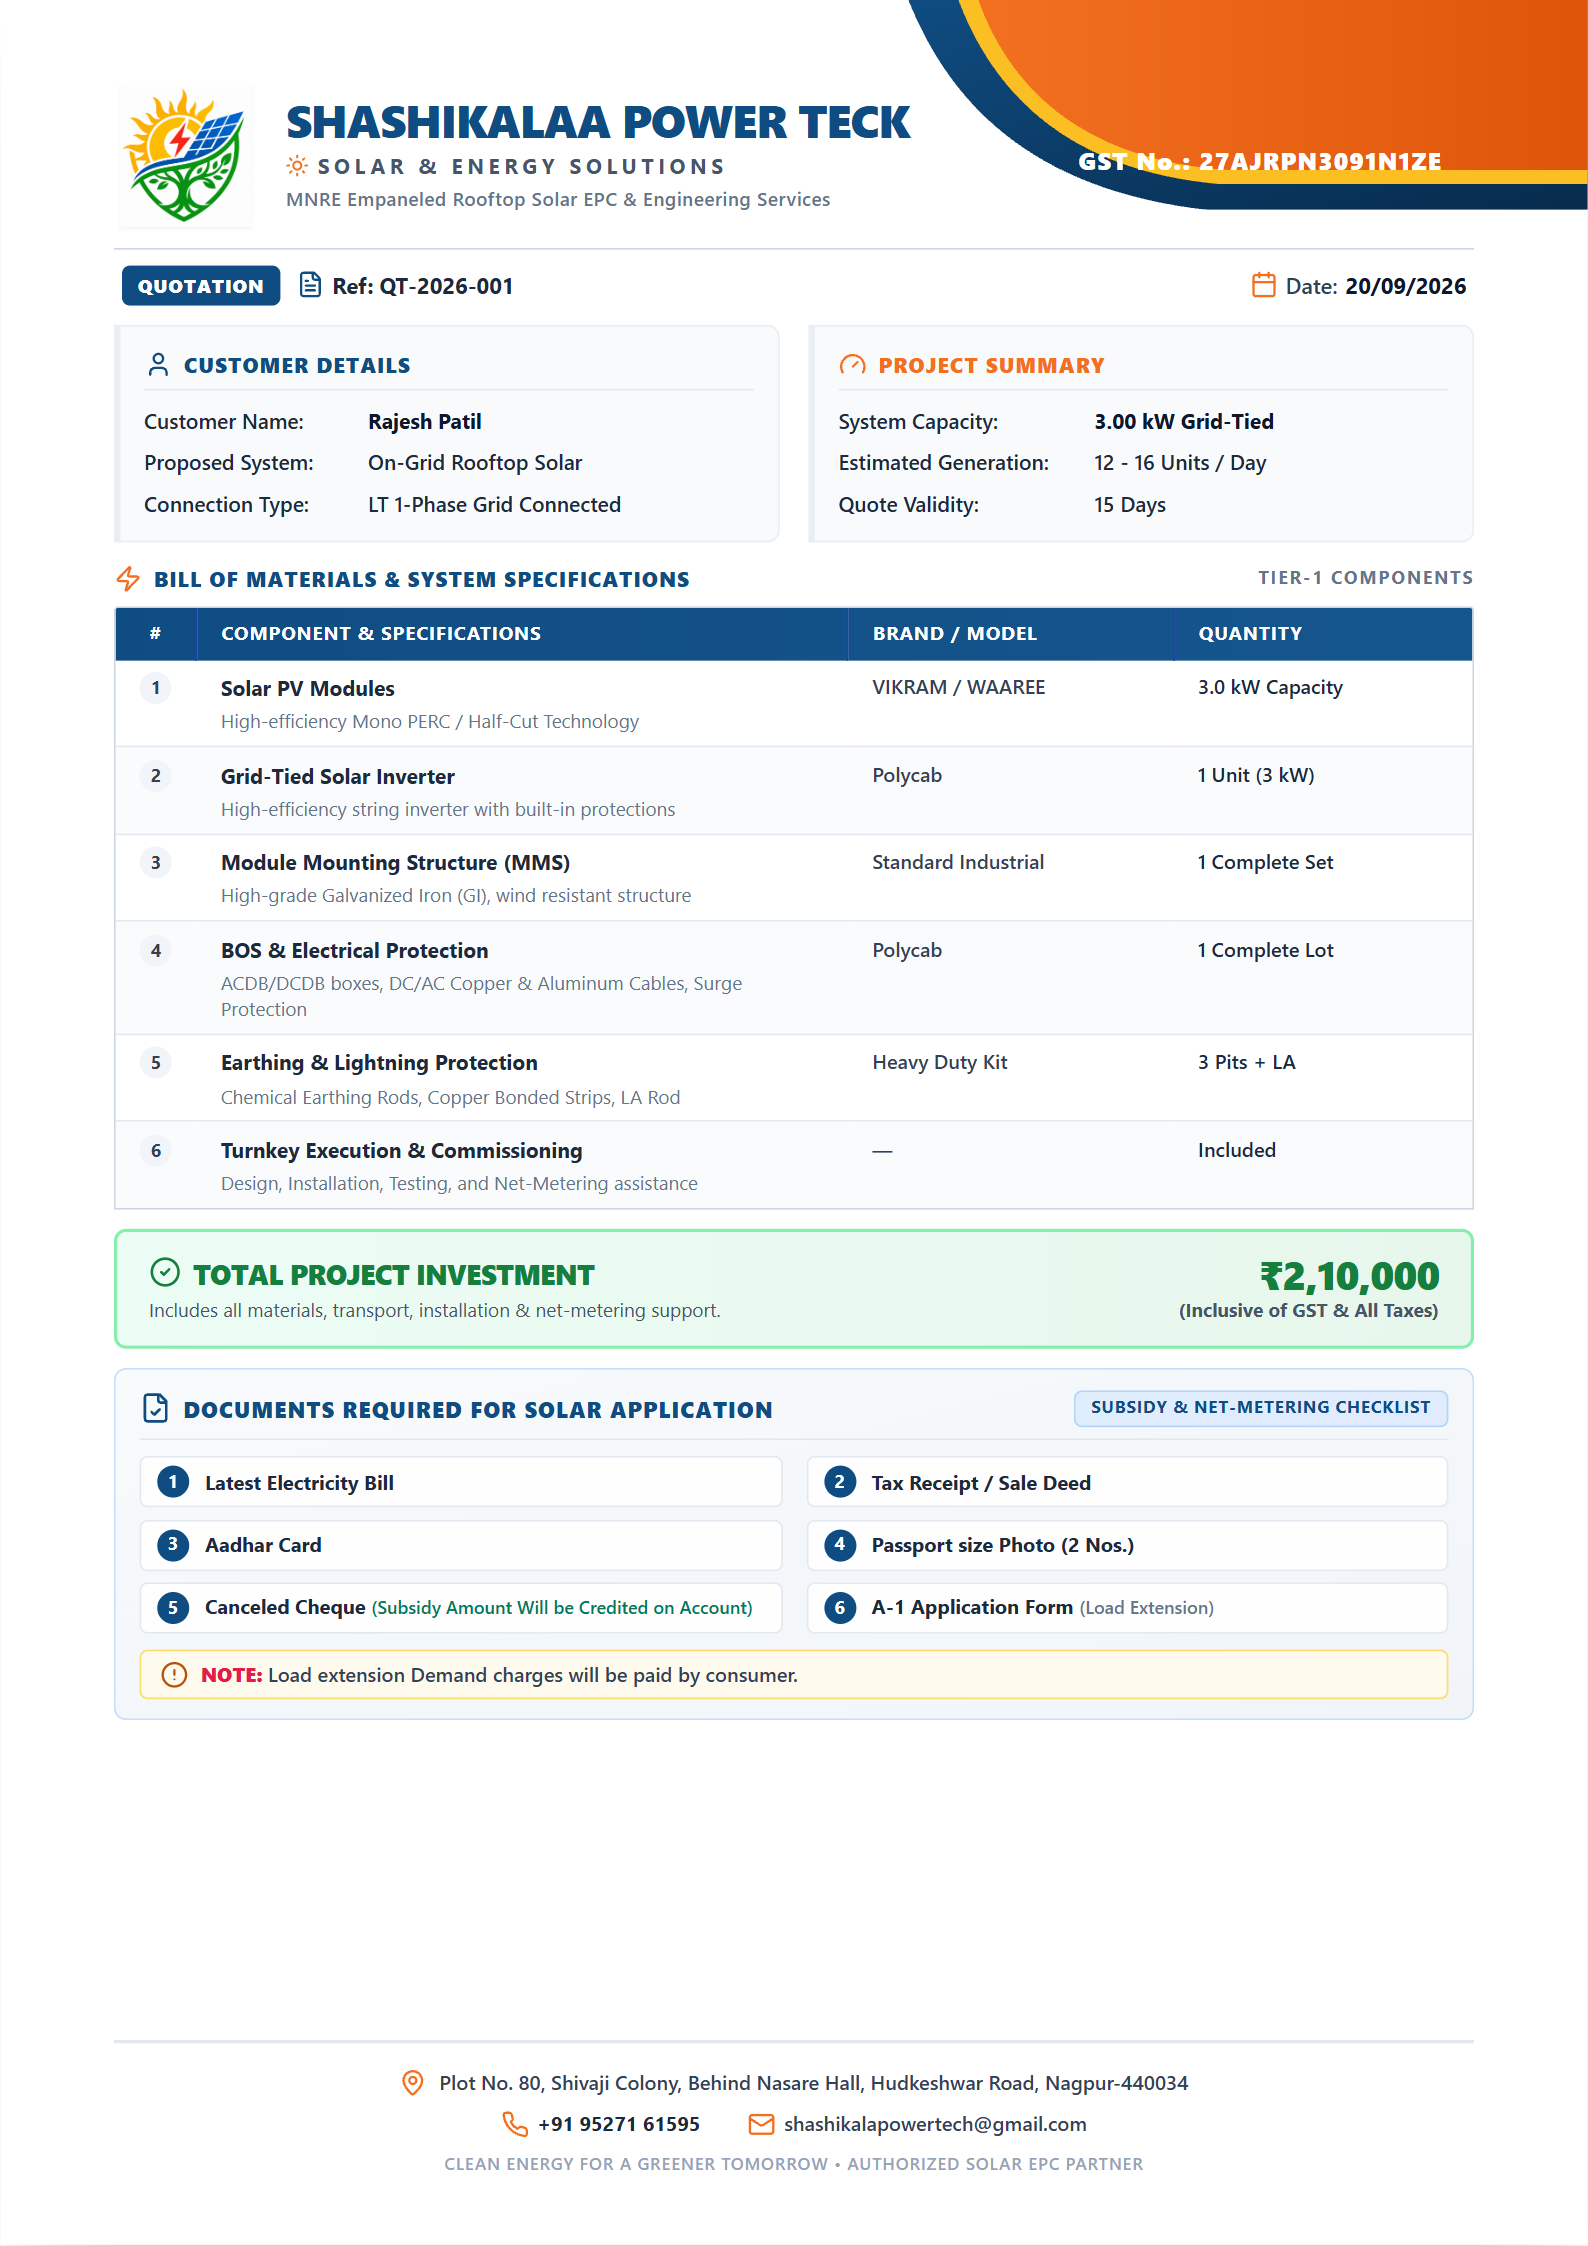
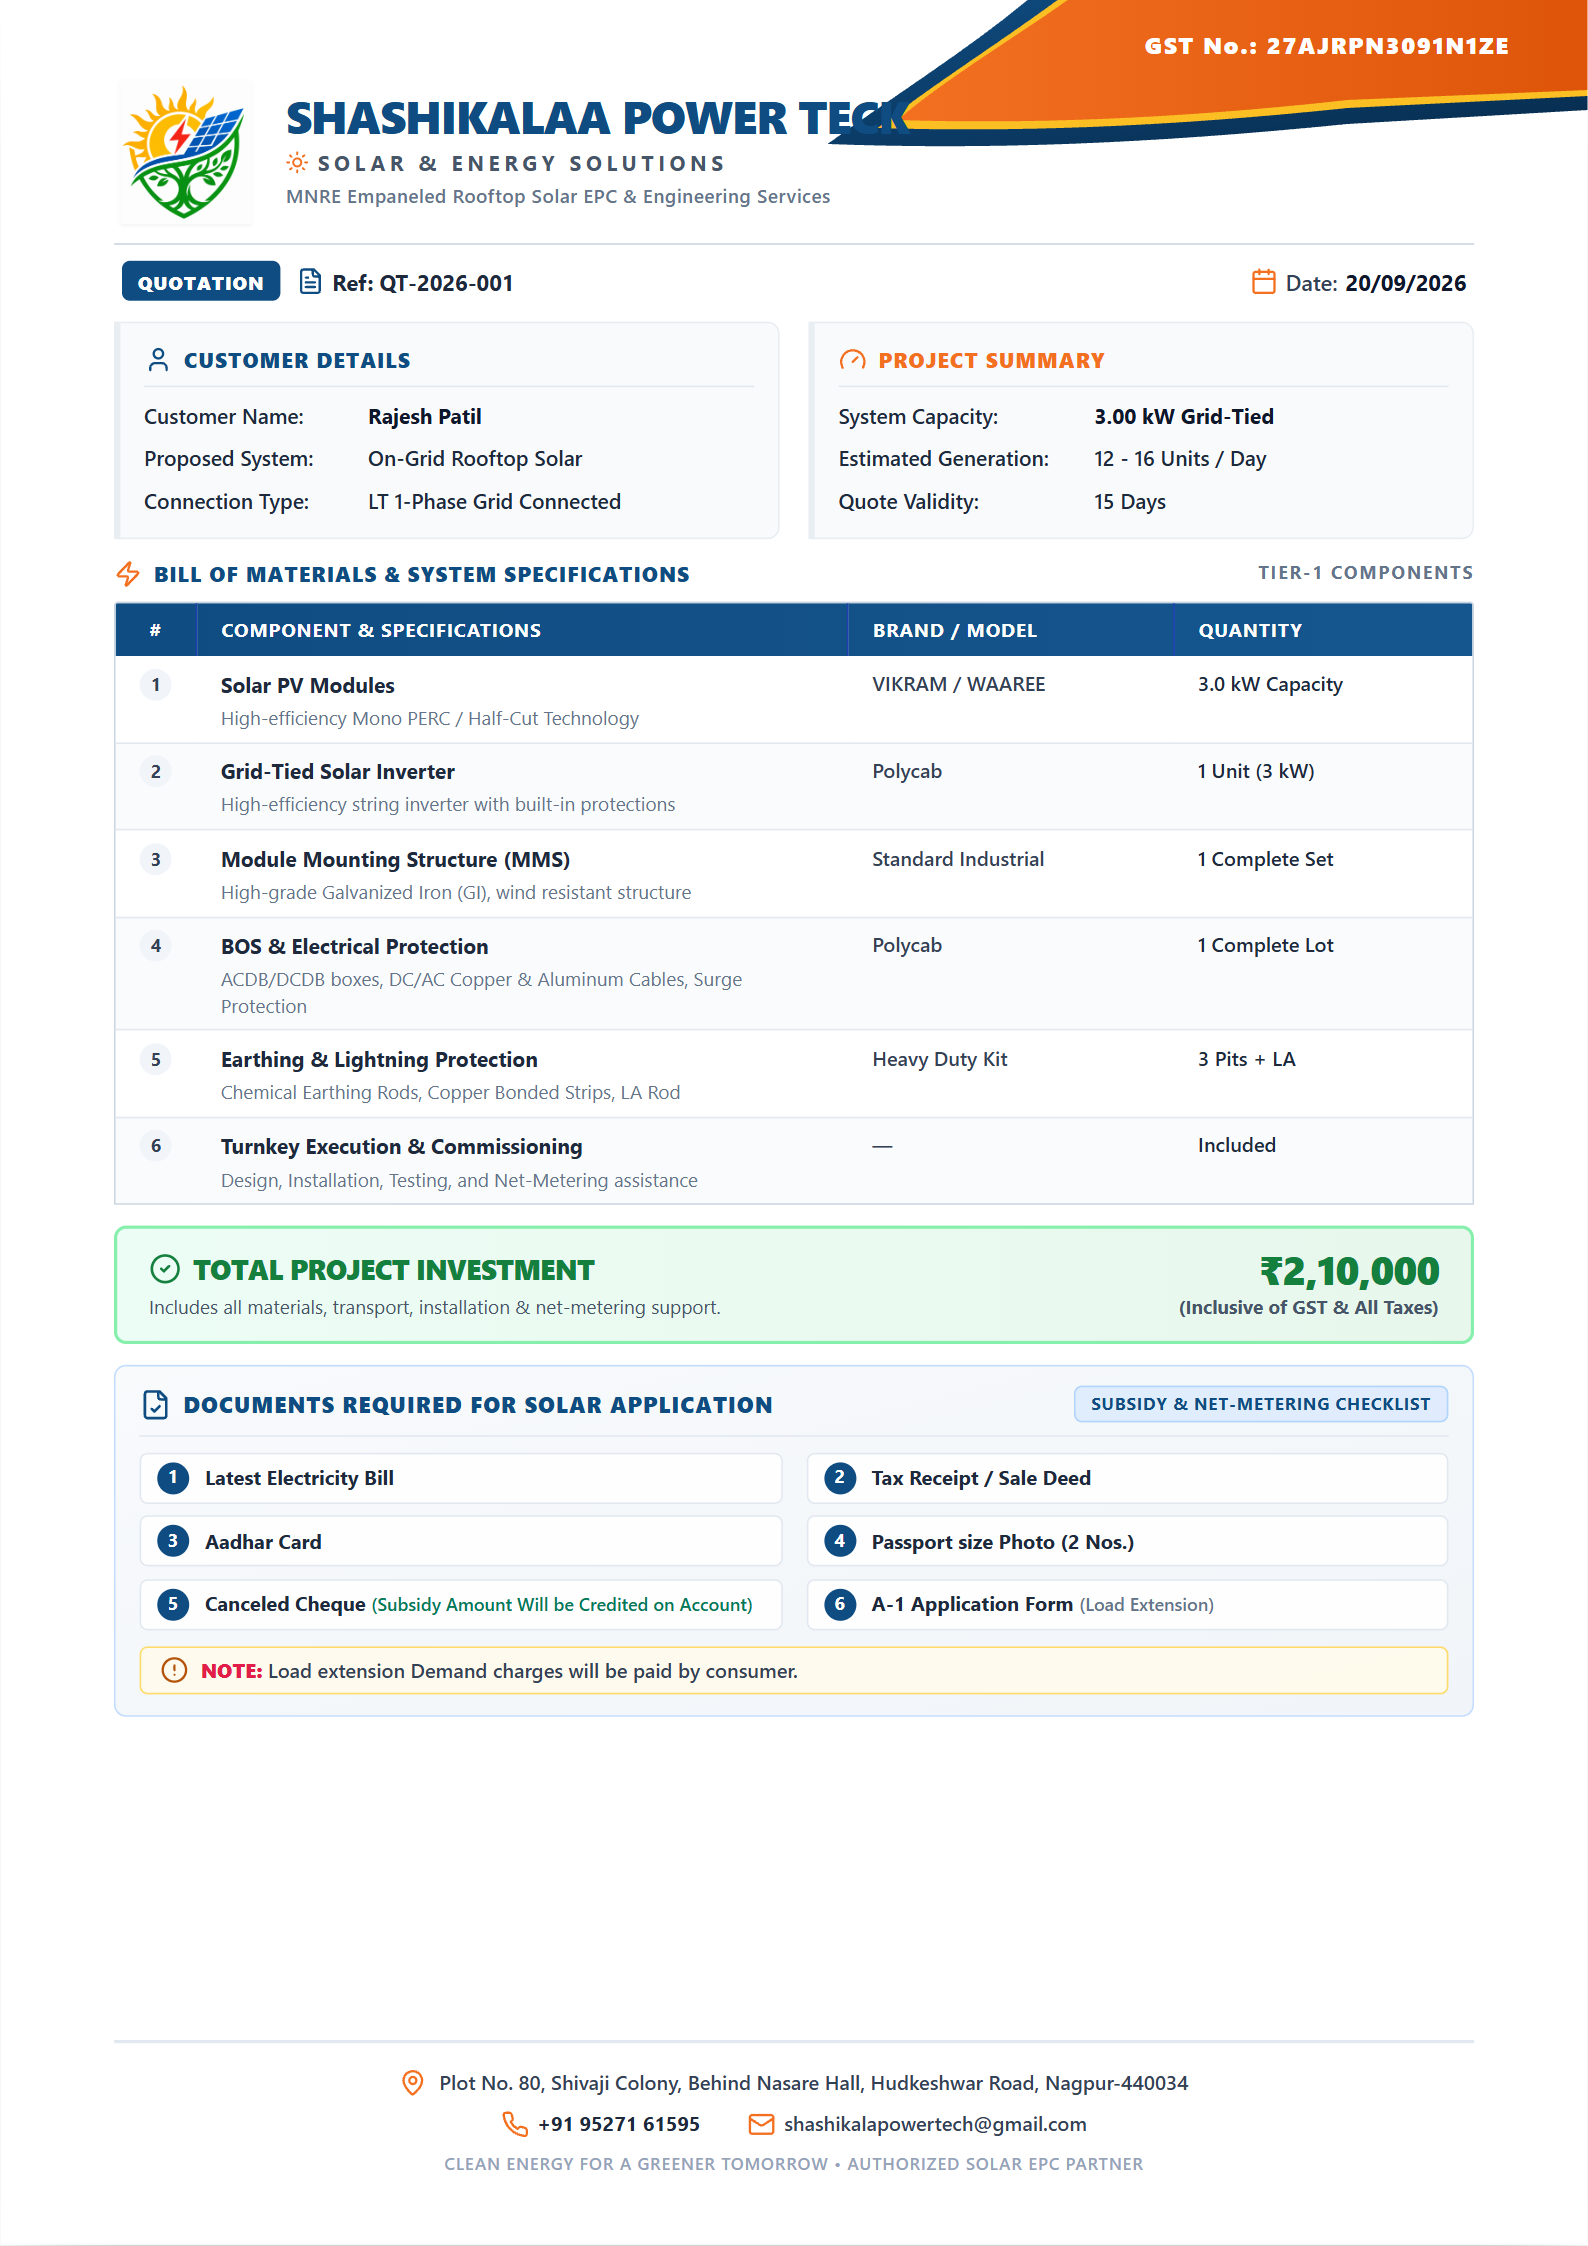
jim

diff --git a/src/components/QuotationPreview.tsx b/src/components/QuotationPreview.tsx
@@ -80,10 +80,10 @@ export default function QuotationPreview({
         transformOrigin: "top center",
       }}
     >
-      {/* Top-Right Completely Filled Background Graphic (Solid Geometry, NO Floating Lines) */}
+      {/* Top-Right Completely Filled Background Graphic with Perfectly Centered GST */}
       <svg
-        className="absolute top-0 right-0 w-[430px] h-[105px] pointer-events-none z-0"
-        viewBox="0 0 430 105"
+        className="absolute top-0 right-0 w-[440px] h-[75px] pointer-events-none z-0"
+        viewBox="0 0 440 75"
         fill="none"
       >
         <defs>
@@ -99,27 +99,41 @@ export default function QuotationPreview({
 
         {/* Navy Blue Base Curve (Completely Filled) */}
         <path
-          d="M 90 0 C 110 50 150 95 240 105 L 430 105 L 430 0 Z"
+          d="M 60 72 C 140 75 220 72 320 62 L 440 55 L 440 0 L 160 0 C 130 25 90 50 60 72 Z"
           fill="url(#gstNavyFill)"
         />
 
         {/* Gold Solar Accent Ribbon (Completely Filled) */}
         <path
-          d="M 115 0 C 132 45 168 85 245 92 L 430 92 L 430 0 Z"
+          d="M 85 64 C 150 66 225 64 320 54 L 440 48 L 440 0 L 175 0 C 145 22 110 44 85 64 Z"
           fill="#FBBF24"
         />
 
         {/* Vibrant Solar Orange Main Body (Completely Filled) */}
         <path
-          d="M 125 0 C 140 42 175 80 250 85 L 430 85 L 430 0 Z"
+          d="M 95 60 C 155 62 230 60 320 50 L 440 45 L 440 0 L 180 0 C 152 20 118 40 95 60 Z"
           fill="url(#gstOrangeFill)"
         />
+
+        {/* Perfectly Centered GST Number Inside Orange Banner */}
+        <text
+          x="310"
+          y="27"
+          fill="#ffffff"
+          fontSize="11.5"
+          fontWeight="900"
+          letterSpacing="0.08em"
+          textAnchor="middle"
+          fontFamily="system-ui, -apple-system, sans-serif"
+        >
+          {`GST No.: ${gst}`}
+        </text>
       </svg>
 
       {/* Top Header Section */}
       <div className="relative z-10">
-        {/* Main Header with Logo, Title and Filled Graphic GST Section */}
-        <div className="flex items-center justify-between relative pb-1 pt-1">
+        {/* Main Header with Logo and Title */}
+        <div className="flex items-center justify-between relative pb-1 pt-0.5">
           {/* Logo & Company Name */}
           <div className="flex items-center space-x-3.5">
             <div className="w-[72px] h-[72px] relative flex items-center justify-center flex-shrink-0">
@@ -146,12 +160,8 @@ export default function QuotationPreview({
             </div>
           </div>
 
-          {/* GST Display seamlessly integrated over the filled orange graphic */}
-          <div className="relative z-10 pr-4 pt-1 flex items-center">
-            <div className="text-white font-black text-xs tracking-wider whitespace-nowrap drop-shadow-xs">
-              GST No.: {gst}
-            </div>
-          </div>
+          {/* Right Spacer for Graphic Banner */}
+          <div className="w-64 h-12 flex-shrink-0"></div>
         </div>
 
         {/* Divider */}
